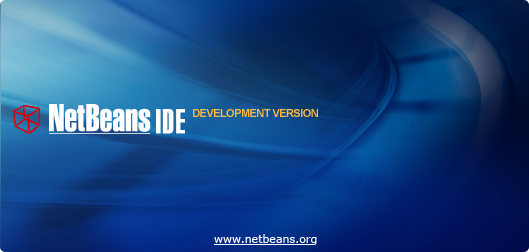
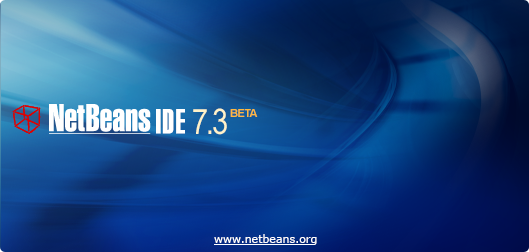
7.3 Beta branding.

Changed region(s): [[0.3629, 0.4167, 0.6049, 0.5556], [0.3932, 0.9167, 0.6049, 0.9722], [0.3025, 0.4444, 0.3327, 0.5278]]

diff --git a/ide.branding/release-toplevel/README.html b/ide.branding/release-toplevel/README.html
@@ -2,7 +2,7 @@
 <!--/*
  * DO NOT ALTER OR REMOVE COPYRIGHT NOTICES OR THIS HEADER.
  *
- * Copyright 1997-2011 Oracle and/or its affiliates. All rights reserved.
+ * Copyright 1997-2012 Oracle and/or its affiliates. All rights reserved.
  *
  * Oracle and Java are registered trademarks of Oracle and/or its affiliates.
  * Other names may be trademarks of their respective owners.
@@ -61,7 +61,7 @@ source code management support, database integration tools, and many other featu
 <h3>To start the IDE (Microsoft Windows) use one of these methods:</h3>
 <ul>
   <li>Double-click the NetBeans IDE icon on your desktop.</li>
-  <li>Choose Start &gt; All Programs &gt; NetBeans &gt; NetBeans IDE 7.1.</li>
+  <li>Choose Start &gt; All Programs &gt; NetBeans &gt; NetBeans IDE 7.3 Beta.</li>
   <li>Start the IDE at the command line <code>C:\&gt; </code><i><var>netbeans-install-directory</var></i><code>\bin\netbeans.exe</code>.</li>
 </ul>
 <h3>To start the IDE (Solaris OS or Linux):</h3>
@@ -89,8 +89,8 @@ source code management support, database integration tools, and many other featu
 <h3>Finding Documentation for NetBeans IDE</h3>
 
 <ul>
-<li>Release information on NetBeans IDE 7.1 can be found at <a
-href="http://www.netbeans.org/community/releases/71/index.html">http://www.netbeans.org/community/releases/71/index.html</a>.</li>
+<li>Release information on NetBeans IDE 7.3 Beta can be found at <a
+href="http://www.netbeans.org/community/releases/73/index.html">http://www.netbeans.org/community/releases/73/index.html</a>.</li>
 
 <li>The index of IDE documentation can be found at <a
 href="http://www.netbeans.org/kb/index.html">http://www.netbeans.org/kb/index.html</a>. 

diff --git a/installer/infra/build/web/js/build_info.js b/installer/infra/build/web/js/build_info.js
@@ -54,18 +54,19 @@ build_info.ADDITIONAL_BUILD_LOCATION   = "{alternative.languages.page.url}";
 
 build_info.BUILD_LOCATION = "";
 
-build_info.LOAD_OMNITURE_CODE          = 0;
-build_info.LOAD_GOOGLE_ANALYTICS_CODE  = 0;
+build_info.LOAD_OMNITURE_CODE          = 1;
+build_info.LOAD_GOOGLE_ANALYTICS_CODE  = 1;
 build_info.USE_BOUNCER                 = 0;
 build_info.ADD_VERSION_INFO_TO_URL     = 0;
 
 build_info.BOUNCER_URL = "http://services.netbeans.org/bouncer/index.php";
 
-build_info.USE_HTML_ZIP_LISTING = 0;
+build_info.USE_HTML_ZIP_LISTING = 1;
 
 build_info.add_download_tabs = function() {
 	add_download_tab("7.2", "http://netbeans.org/downloads/");
-	add_download_tab(DEVELOPMENT_TITLE /*,DEVELOPMENT_BUILDS_LINK*/);
+        add_download_tab("7.3 Beta");
+	add_download_tab(DEVELOPMENT_TITLE,DEVELOPMENT_BUILDS_LINK);
 	add_download_tab(ARCHIVE_TITLE,ARCHIVE_BUILDS_LINK);
 }
 add_build_info(build_info);

diff --git a/installer/infra/build/web/js/common_strings.js b/installer/infra/build/web/js/common_strings.js
@@ -75,8 +75,8 @@ BUNDLE_LONG_NAMES[2] = "C/C++";
 BUNDLE_LONG_NAMES[3] = "PHP";
 BUNDLE_LONG_NAMES[4] = "All";
 
-var RELEASE_NOTES_LINK  = "http://netbeans.org/community/releases/70/relnotes.html";
-var INSTALL_NOTES_LINK  = "http://netbeans.org/community/releases/70/install.html";
+var RELEASE_NOTES_LINK  = "http://netbeans.org/community/releases/73/relnotes.html";
+var INSTALL_NOTES_LINK  = "http://netbeans.org/community/releases/73/install.html";
 
 var LEGAL_INFO_HEADER = "Important Legal Information:";
 
